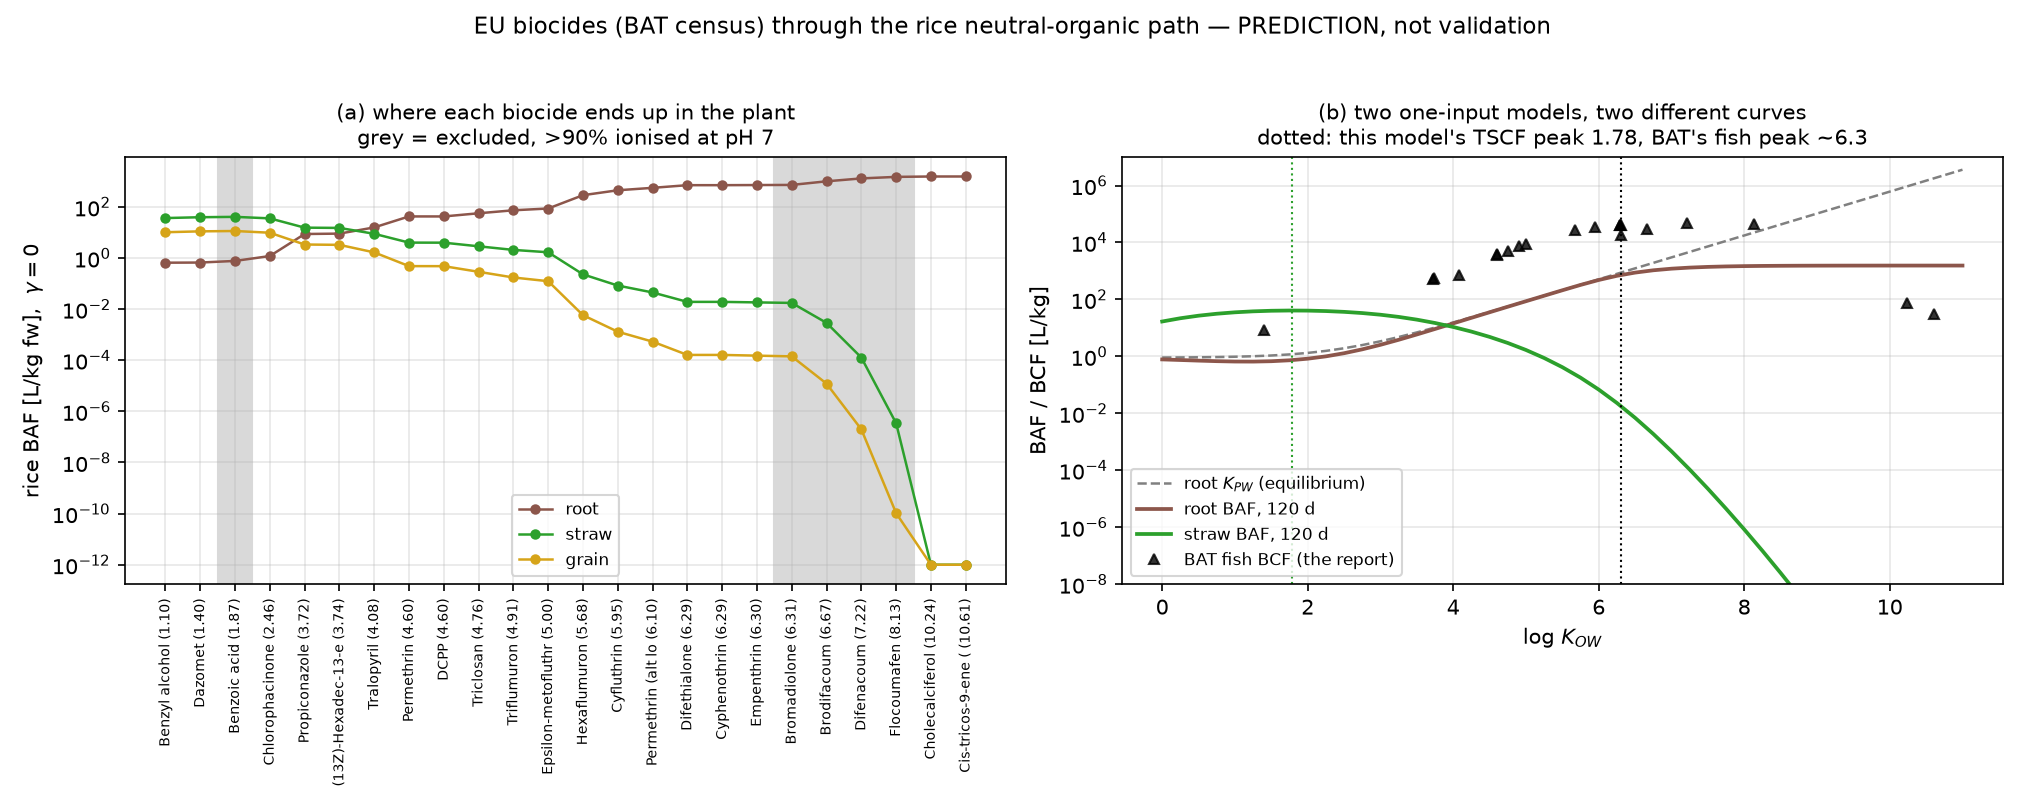
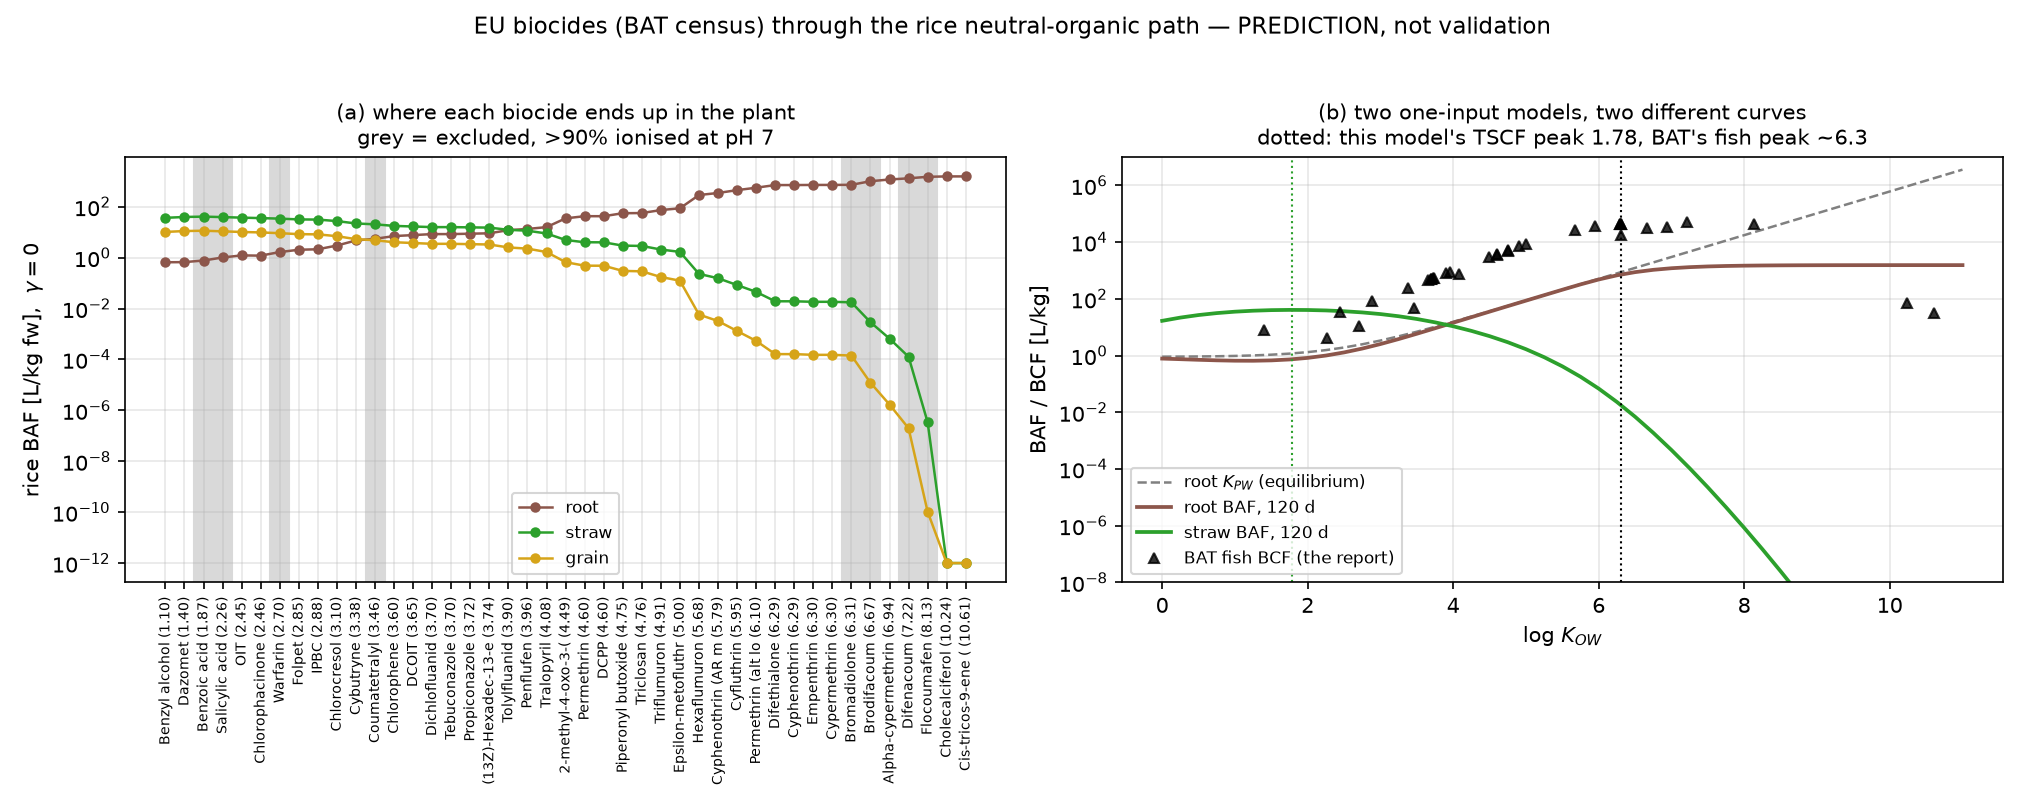
Enter the 18 log Kow values the BAT project sent, and say why the other 106 are not usable
The census ran 24 of the report's 44 substances; the other 20 had no log
Kow printed in it and were left blank rather than filled in from
elsewhere. Asked for them instead, the BAT project supplied its own
collection sheet (EXPORT_logkow_full_20260906.csv, 167 rows, with CAS,
source string and source rank) and answered the four open questions.

Runnable rows 24 -> 43. Inside the measured-data span 11 -> 24; root-only
6 -> 9; excluded for ionisation 5 -> 8. The only two that stay unrunnable
are the two deliberately not requested, and neither for want of a number:
the triamine carries three charges (this model takes one valence, exactly
as BAT does) and creosote has no single defined structure.

Three checks before accepting any of it:

  * every stated pKa / percent-ionised pair in the export round-trips at
    pH 7 to better than 0.005 percentage points -- the same basis this
    file already ran on, so the ionisation gate did not have to move;
  * the pKa this file had RECOVERED from the report's percentages
    (coumatetralyl 4.781, warfarin 5.183) match the sourced values (4.75,
    5.19) to 0.03 and 0.007 log. The sourced ones replace them, but the
    agreement is a check on the inversion that was worth having;
  * provenance is uneven and is now recorded per row: IPBC is rank 3, a
    model prediction; tebuconazole and DCOIT carry no rank at all.

Cyphenothrin is left OPEN on purpose. Their provenance records the PT18
[…]

diff --git a/validation/bat_census_biocides.py b/validation/bat_census_biocides.py
@@ -614,8 +614,10 @@ def write_csv(runs, path=OUT_CSV):
 
 
 def verdict(rows, screened, runs, ov, fig_path=None):
-    n_named = len(rows)
-    n_stated = len([r for r in rows if r["status"] == "run"])
+    n_named = len([r for r in rows if "AR measured" not in r["substance"]])
+    n_report = len([r for r in rows if r["status"] == "run"
+                    and "EXPORT_logkow" not in r["section"]])
+    n_export = len([r for r in rows if "EXPORT_logkow" in r["section"]])
     inside = [o for o in screened if o["verdict"] == "inside"]
     excl = [o for o in screened if o["verdict"].startswith("EXCLUDED")]
     rootonly = [o for o in screened if o["verdict"] == "root only"]
@@ -626,10 +628,13 @@ def verdict(rows, screened, runs, ov, fig_path=None):
     print("=" * 78)
     print("VERDICT")
     print("=" * 78)
-    print(f"  {n_named} substances are named in the report and {n_stated} of them carry a")
-    print(f"  log Kow it states, so {len(screened)} can be put through this model at all")
-    print("  (the extra one is propiconazole, whose log Kow comes from this repo's own")
-    print(f"  Liu 2023 row). Of those, {len(inside)} sit inside the span where this repo")
+    print(f"  {n_named} substances are named in the report. {n_report} carry a log Kow the")
+    print(f"  report itself states; {n_export} more were supplied from the BAT project's own")
+    print("  collection sheet on request (they were never printed in the report, and were")
+    print("  never filled in from elsewhere until that source existed); propiconazole comes")
+    print("  from this repo's own Liu 2023 row, and cyphenothrin carries a second row for")
+    print(f"  the assessment report's measured lower end. {len(screened)} rows run in all.")
+    print(f"  Of those, {len(inside)} sit inside the span where this repo")
     print(f"  holds measured plant data, {len(rootonly)} are past the TSCF anchor so only")
     print(f"  their root is quotable, {len(extrap)} are beyond every anchor in either model,")
     print(f"  and {len(excl)} are excluded for ionisation. The report's own coverage")

diff --git a/docs/bat_census_biocides.md b/docs/bat_census_biocides.md
@@ -5,9 +5,10 @@ Run it (`python validation/bat_census_biocides.py`, ~3 min; `--fast` skips the l
 sweep) rather than quoting this file — every number below is printed by that script.*
 
 **한 줄 요약.** BAT 보고서에 나오는 물질들을 이 저장소의 **중성 유기물 경로**
-(`model_api.simulate_neutral`)에 넣어 벼 뿌리/짚/낟알 축적을 계산했다. 24개 물질이
-돌아가지만, 그중 11개만 이 저장소가 측정 데이터를 가진 log Kow 구간 안에 있고,
-5개는 이온화 때문에 제외되며, 검증 가능한 물질은 **단 2개**(프로피코나졸·트리클로산)다.
+(`model_api.simulate_neutral`)에 넣어 벼 뿌리/짚/낟알 축적을 계산했다. **43개 물질이**
+돌아가고(초판 24개 → BAT 측이 자기 물성 시트에서 18종을 보내와 확장), 그중 **24개**가
+이 저장소가 측정 데이터를 가진 log Kow 구간 안에 있으며, **8개**는 이온화 때문에 제외되고,
+검증 가능한 물질은 여전히 **단 2개**(프로피코나졸·트리클로산)다.
 **예측이지 검증이 아니다.**
 
 ---
@@ -55,15 +56,61 @@ a measured table widens the scope automatically.
 |---|---|
 | substances named in the report | 44 |
 | — carrying a log Kow the report states | **23** |
-| — plus propiconazole, whose log Kow comes from this repo's own Liu 2023 row | 24 |
-| inside the measured-data span | **11** |
-| past the TSCF anchor → **root only** is quotable | 6 |
+| — supplied on request from the BAT project's own collection sheet (2026-09-06) | **+18** |
+| — plus propiconazole (this repo's Liu 2023 row) and a second cyphenothrin row | +2 |
+| **rows that run** | **43** |
+| inside the measured-data span | **24** |
+| past the TSCF anchor → **root only** is quotable | 9 |
 | beyond every anchor in either model (cholecalciferol 10.24, muscalure 10.61) | 2 |
-| **excluded, >90% ionised at pH 7** | 5 |
+| **excluded, >90% ionised at pH 7** | 8 |
 
-The 20 substances with no report-stated log Kow are kept in the table with
-`status=no_logkow_in_report` and **not filled in from elsewhere** — inventing an
-input is the defect the report's own §8.14 is about.
+Only **two** substances are still unrunnable, and neither for want of a number:
+the triamine carries three charges (this model takes one valence, exactly as BAT
+does — its §7.7) and creosote has no single defined structure.
+
+### 2026-09-06 — the 18 missing values arrived, and what they cost to accept
+
+The first version of this file ran 24 of the 44 substances. The other 20 had no
+log Kow **printed in the report**, and were left blank rather than filled in from
+elsewhere — inventing an input is the defect that report's own §8.14 is about.
+Asked for them instead, the BAT project sent its own collection sheet
+(`EXPORT_logkow_full_20260906.csv`, 167 substances) and answered four questions.
+Each value is now entered with its CAS, source string and **source rank**
+(1 = assessment/CLH report, 2 = cited literature, 3 = model prediction).
+
+Three things were checked before any of it was used:
+
+* **Basis.** Every stated pKa / percent-ionised pair in the export round-trips at
+  pH 7 to better than **0.005 percentage points** — the same basis this file
+  already ran on, so the ionisation screen did not have to be re-derived.
+* **The inversion this file had been using was right.** For coumatetralyl and
+  warfarin the report gave only a percent ionised, and pKa had been recovered
+  from it (4.781, 5.183). The sourced values are **4.75 and 5.19** — 0.03 and
+  0.007 log away. The recovered values are now replaced by the sourced ones, but
+  the agreement is a check on the method that was worth having.
+* **Provenance is uneven and is recorded per row.** IPBC is **rank 3** — a model
+  prediction, the weakest source in their scheme. Tebuconazole and DCOIT carry no
+  rank at all (no BPC opinion, so they sit outside the audited provenance table).
+  Those three are runnable but their inputs are not the equal of the rest.
+
+Two answers changed nothing and are recorded because they closed a question:
+tolylfluanid and dichlofluanid have **negative** pKa (−5.453, −5.964) as bases,
+i.e. ~0 % ionised at environmental pH, so they run as neutrals; and folpet's
+export note says the *screen* recorded 99.9 % ionised while the *entered* value
+was neutral (§3.0a) — the entered value is used, and the disagreement is kept on
+the row rather than smoothed away.
+
+**Cyphenothrin was left open on purpose.** Their provenance row records the PT18
+assessment report's measured **5.79–6.09** as superseding the entered 6.29, and
+they declined to pick one — which is their §8.14 rule applied to themselves. Both
+ends are run here (6.29 stays as the row BAT actually ran, because §5(a)'s
+identity demonstration needs the same entered value as difethialone), and neither
+is called canonical. Both land in the same scope class and neither moves the
+conclusion.
+
+**What it bought.** Runnable rows 24 → **43**, inside the measured-data span
+11 → **24**. The rank correlation against BAT's fish BCF was recomputed on 35
+substances instead of 20 and got *stronger*, not weaker (§(e) below).
 
 ### The transcription is checked before it is used
 
@@ -167,8 +214,9 @@ the model's root number stops being a partition coefficient and becomes a rate.
 That is a limit of this model, stated here rather than discovered later.
 
 **(e) A fish BCF does not rank these substances the way a rice model does.**
-Spearman against BAT's Scenario A fish BCF over the 20 substances that have one:
-**root +0.467, straw −0.466**. The root agrees because both rise with
+Spearman against BAT's Scenario A fish BCF over the 35 substances that have one:
+**root +0.725, straw −0.725** (on the first 20, before the collection sheet arrived,
++0.467 / −0.466 — nearly doubling the sample *strengthened* it). The root agrees because both rise with
 lipophilicity; the shoot *anti*-correlates, and cannot do otherwise, because what
 reaches a rice shoot is gated by a bell that has already collapsed by log Kow 5.
 "Bioaccumulative in fish" is not a statement about grain.
@@ -181,6 +229,35 @@ accumulators whose only other sink is growth dilution, which goes to zero at
 maturity. The quantity the report identifies as its least defensible input is the
 one the edible compartment is most sensitive to, and for a plant nobody has
 measured it at all.
+
+## The other 106 substances in that export — not usable as delivered
+
+The same export carries **106 substances that were never entered into BAT** (no
+BPC opinion, so that study could not score them). This model has no such
+restriction, and on log Kow alone **82 of them would fall inside** the
+measured-data span — which would take the screen from 24 substances to over a
+hundred. It is not being done, for two reasons that are properties of the file
+rather than judgements:
+
+* **No pKa on any of the 106.** The column is populated for 28 of the 61
+  BAT-entered rows and for **zero** of the collection-sheet-only rows. Running
+  them would silently treat every ionisable substance as neutral — which is
+  exactly the failure the report records against its own screen in §3.0a, and
+  the failure this file's ionisation gate exists to prevent. The gate cannot
+  fire on a blank.
+* **No source rank on any of the 106.** Rank is present for 59 of the 61 entered
+  rows and none of the others, so a measured value and a model output are
+  indistinguishable. That is the §7.9 trap — permethrin's 6.5 arrived tagged
+  "experimental" from a prediction model — with no way to check for it.
+
+The data itself shows why that matters: allyl isothiocyanate carries a log Kow of
+**34.675** in the unaudited half. Its real value is near 2. One such row inside a
+screen of 106 would discredit the whole table.
+
+**So the ask is specific**: pKa (with acid/base) and a source rank for those 106,
+or a subset of them chosen by use — the wood-preservative and paddy-relevant
+actives first. With those two columns they become runnable on the same footing as
+the 43.
 
 ## What this does not establish — and cannot
 

diff --git a/CLAUDE.md b/CLAUDE.md
@@ -1141,9 +1141,22 @@ Corrected neutral DPU base: `docs/dpu_model_summary_corrected.tex`
   organism/endpoint/regulation, so exactly ONE thing transfers — an **audited log Kow of the UNCHARGED form**, which is
   the one input the neutral path needs (`K_PW` and `TSCF` are both functions of it, nothing fitted) and whose corruption
   is the report's own headline correction (a distribution ratio D entered where log Kow belongs; §7.5 — an error this
-  model would inherit identically). **Census**: 44 substances named, **23 carry a report-stated log Kow** (+propiconazole
-  from this repo's own Liu 2023 row) ⇒ 24 runnable; **11 inside** the span where this repo holds measured plant data,
-  6 root-only (past the TSCF anchor), 2 beyond every anchor, **5 EXCLUDED for ionisation**. The exclusion rule is the
+  model would inherit identically). **Census (UPDATED 2026-09-06)**: 44 substances named, 23 with a report-stated log Kow;
+  the other 20 were left BLANK rather than filled in from elsewhere, and on request the BAT project then supplied **18 of
+  them from its own collection sheet** (`EXPORT_logkow_full_20260906.csv`, 167 rows, with CAS + source + rank) ⇒ **43 rows
+  run** (+propiconazole from this repo's Liu 2023 row, + a second cyphenothrin row at the AR's measured lower end);
+  **24 inside** the span where this repo holds measured plant data, 9 root-only, 2 beyond every anchor, **8 EXCLUDED for
+  ionisation**. Only 2 stay unrunnable and neither for want of a number (the triamine has 3 charges; creosote has no
+  structure). Three checks before accepting the export: every stated pKa/%ionised pair round-trips at pH 7 to **<0.005 pp**;
+  the pKa this file had RECOVERED from the report's percentages (coumatetralyl 4.781, warfarin 5.183) match the sourced
+  values (4.75, 5.19) to 0.03/0.007 log — a check on the inversion, now replaced by the sourced ones; and provenance is
+  uneven and recorded per row (IPBC is **rank 3 = a model prediction**; tebuconazole/DCOIT carry no rank). Cyphenothrin is
+  deliberately left OPEN — their provenance says the AR's measured 5.79–6.09 supersedes the entered 6.29 and they declined
+  to pick one (their §8.14 rule applied to themselves), so both ends are run and neither is called canonical.
+  **The export's other 106 substances (never entered into BAT) are NOT usable as delivered**: 82 would fall inside on
+  log Kow alone, but the file carries **zero pKa and zero source rank** for any of them, so the ionisation gate cannot fire
+  (the §3.0a failure) and a measurement is indistinguishable from a model output (the §7.9 trap) — and one row carries
+  log Kow **34.675** (allyl isothiocyanate, real value ~2). The follow-up ask is those two columns. The exclusion rule is the
   report's OWN §3.0a rule (">90% ionised at environmental pH") which it records as written-down-and-never-implemented;
   it is implemented here at the same threshold, and the pH-7 basis is pinned by round-tripping the six stated pKa to
   **0.002 pp**. **Result**: everything the opinions call bioaccumulative loads the ROOT and does not reach the grain
@@ -1159,7 +1172,7 @@ Corrected neutral DPU base: `docs/dpu_model_summary_corrected.tex`
   equilibration and not its level — which is WHY the strongly-ionised group is excluded rather than caveated;
   (d) BAT's fish BCF peaks near log Kow 6.3 and turns over, this model's straw peaks at **1.75** and its root never
   turns over but **saturates kinetically** (K_PW/root 0.92 @4 → 0.001 @10.5: above ~7 the root number stops being a
-  partition and becomes a rate); (e) Spearman(BAT fish BCF, rice root) **+0.467** vs (·, rice straw) **−0.466** — a fish
+  partition and becomes a rate); (e) Spearman(BAT fish BCF, rice root) **+0.725** vs (·, rice straw) **−0.725** on 35 substances (+0.467/−0.466 on the first 20 — nearly doubling the sample STRENGTHENED it) — a fish
   bioaccumulation class is NOT a statement about grain; (f) the report's largest finding is AMPLIFIED — its metabolic
   input moved fish BCF ≤82×, the same fish kM half-lives move this model's **grain ≤5,573×** (terminal accumulator),
   i.e. the least defensible input is the one the edible compartment is most sensitive to. **Honest limits**: no measured
